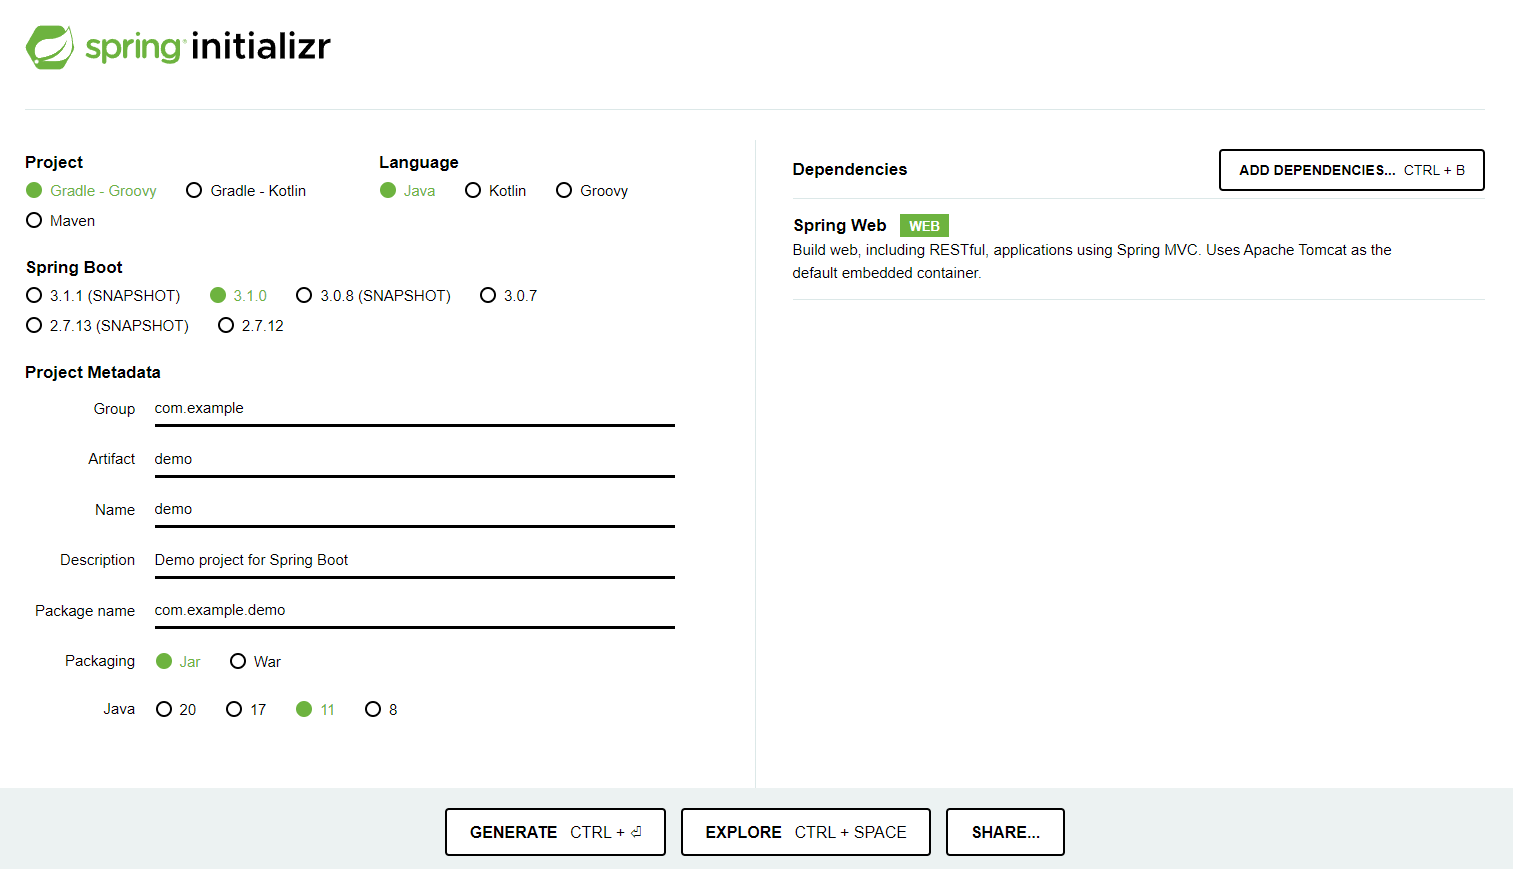
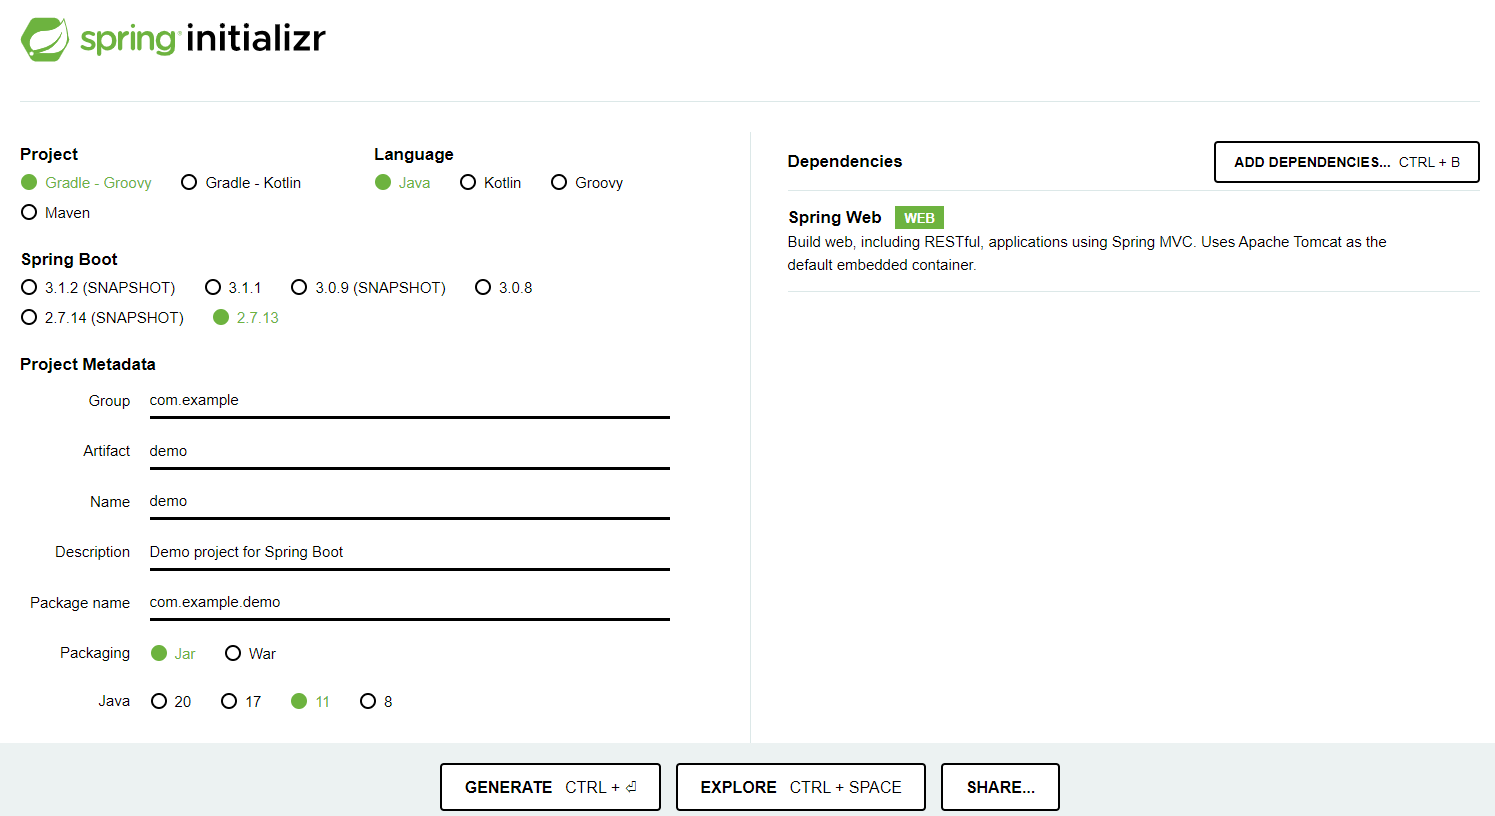
Spring Project AWS EC2에 배포하기 1 포스트 수정

diff --git a/_posts/aws/2023-06-01-aws1.md b/_posts/aws/2023-06-01-aws1.md
@@ -5,7 +5,7 @@ tags: ['AWS', 'EC2', 'S3', 'codecommit', 'codebuild', 'codedeploy']
 toc: true
 
 date: 2023-06-01
-last_modified_at: 2023-06-07
+last_modified_at: 2023-06-23
 ---
 
 ## 1. 샘플 프로젝트 생성
@@ -15,6 +15,8 @@ AWS EC2에 배포할 샘플 프로젝트를 한번 생성해보겠습니다.
 1. Spring Boot 프로젝트 생성
 
    [[Spring Boot 프로젝트 생성 홈페이지]](https://start.spring.io/){:target="_blank"}
+
+   🔔 Spring Boot 3 버전 이상부터는 JDK 17을 사용해야 합니다.
 
    ![spring1]({{ site.url }}/assets/img/aws/aws-spring1.png)
 
